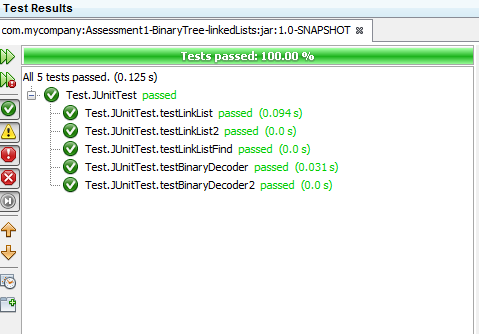
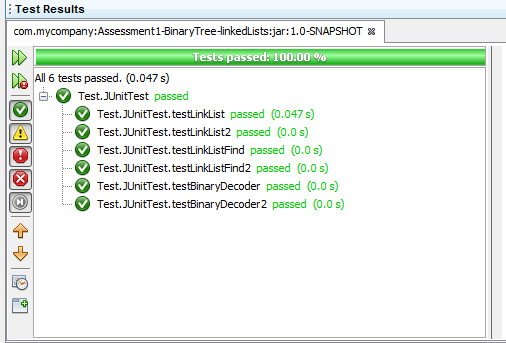
Made Another Test

Changed region(s): [[0.0, 0.0, 1.0, 1.0]]

diff --git a/Assessment1-BinaryTree-linkedLists/src/main/java/com/mycompany/assessment1/BinaryTree/BinaryTreeCommands.java b/Assessment1-BinaryTree-linkedLists/src/main/java/com/mycompany/assessment1/BinaryTree/BinaryTreeCommands.java
@@ -14,6 +14,7 @@ package com.mycompany.assessment1.BinaryTree;
 public class BinaryTreeCommands {
       BinaryTreeNode root = new BinaryTreeNode();
         BinaryTreeNode current;
+        //arrays for both letters and code
     public char[] letters = {'A', 'B', 'C', 'D', 'E' , 'F' , 'G' , 'H' , 'I' , 'J', 'K', 'L' , 'M' , 'N' , 'O' , 'P', 'Q', 'R', 'S' , 'T' , 'U', 'V', 'W', 'X', 'Y' ,'Z', 
         '1', '2', '3', '4', '5' , '6', '7', '8' , '9' , '0', '.' };
     public String[] Code = {".-" , "-..." , "-.-.", "-.." , "." , 
@@ -22,6 +23,9 @@ public class BinaryTreeCommands {
         "-", "..-" , "...-", ".--", "-..-" , "-.--" , "--." , ".----" , "..---" , "...--" , "....--" , ".....", "-...." , "--...", "---.." , "----.", "-----", ".-.-.-"};
     
     
+    /**
+     * Loops to add all data to the binary Tree
+     */
     public void loopAddData(){
         for(int i = 0; i < letters.length; i++){
             addData(Code[i], letters[i]);
@@ -33,7 +37,6 @@ public class BinaryTreeCommands {
     
     /**
      * Adds data to binary tree
-     * currently not working :(
      */
     public void addData(String mcode, char ltr){
      current = root;
@@ -41,14 +44,14 @@ public class BinaryTreeCommands {
  
         for (int i = 0; i < mcode.length(); i++) {
             signal = mcode.substring(i, i + 1);
-            if (signal.equals(".")) {
+            if (signal.equals(".")) {//goes left if it's a .
                 if (current.getLeft() != null) {
                     current = current.getLeft();
                 } else {
                     current.setLeft(new BinaryTreeNode());
                     current = current.getLeft();
                 }
-            } else {
+            } else {// goes right if it's - or else
                 if (current.getRight() != null) {
                     current = current.getRight();
                 } else {
@@ -64,7 +67,7 @@ public class BinaryTreeCommands {
     
     
     /**
-     * remember space!!
+     * 
      * decodes a code to letter
      * @param Message
      * @return 

diff --git a/Assessment1-BinaryTree-linkedLists/src/test/java/Test/JUnitTest.java b/Assessment1-BinaryTree-linkedLists/src/test/java/Test/JUnitTest.java
@@ -19,7 +19,9 @@ public class JUnitTest {
     public JUnitTest() {
     }
           
-    
+    /**
+     * Tests if list can have an value
+     */
     @Test
     public void testLinkList(){
         LinkListsCommands list = new LinkListsCommands();
@@ -28,6 +30,9 @@ public class JUnitTest {
        assertEquals("Spades K" , actual);
     }
     
+    /**
+     * second tests if list can have an value
+     */
       @Test
     public void testLinkList2(){
         LinkListsCommands list = new LinkListsCommands();
@@ -36,14 +41,38 @@ public class JUnitTest {
        assertEquals("Diamonds 1" , actual);
     }
     
+    /**
+     * Test to not find if  value exists 
+     */
     @Test
     public void testLinkListFind(){
         String key = "Diamond";
-        LinkListsCommands instance = new LinkListsCommands();
-        assertNull(instance.find(key));
+        LinkListsCommands list = new LinkListsCommands();
+        list.AddingData();
+        assertNull(list.find(key));
     }
-   
     
+       /**
+     * Test 2 to find if value exists 
+     */
+    @Test
+    public void testLinkListFind2(){
+        String key = "Diamonds 1";
+        boolean result;
+        LinkListsCommands list = new LinkListsCommands();
+         list.AddingData();
+       if(list.find(key) == null){
+            result = false;
+        }else{
+           result = true;
+       }
+        assertTrue(result);
+    }
+    
+   
+    /**
+     * Test one for binary decoder
+     */
     @Test
     public void testBinaryDecoder(){
         BinaryTreeCommands Binary = new BinaryTreeCommands();
@@ -52,6 +81,9 @@ public class JUnitTest {
         assertEquals(expResult ,Binary.decodeLetter(".- "));
     }
     
+    /**
+     * Test 2 for binary decoder 
+     */
      @Test
     public void testBinaryDecoder2(){
         BinaryTreeCommands Binary = new BinaryTreeCommands();

diff --git a/Assessment1-BinaryTree-linkedLists/src/main/java/com/mycompany/assessment1/Main.java b/Assessment1-BinaryTree-linkedLists/src/main/java/com/mycompany/assessment1/Main.java
@@ -115,6 +115,10 @@ public class Main {
             LinkList();
        }
        
+       /**
+        * Allows a user to find if an value exists in the list
+        * @throws IOException 
+        */
        public static void LinkListFind() throws IOException{
                System.out.println("Enter what one you wish to find");
                System.out.flush();
@@ -144,6 +148,7 @@ public class Main {
      
      /**
       * Start of the binary Tree example
+      * Then Allows the user to decode an Morse Code message
       */
      public static void binaryTree() throws IOException{
          System.out.println("BinaryTree example, Please enter your Morse code message");
